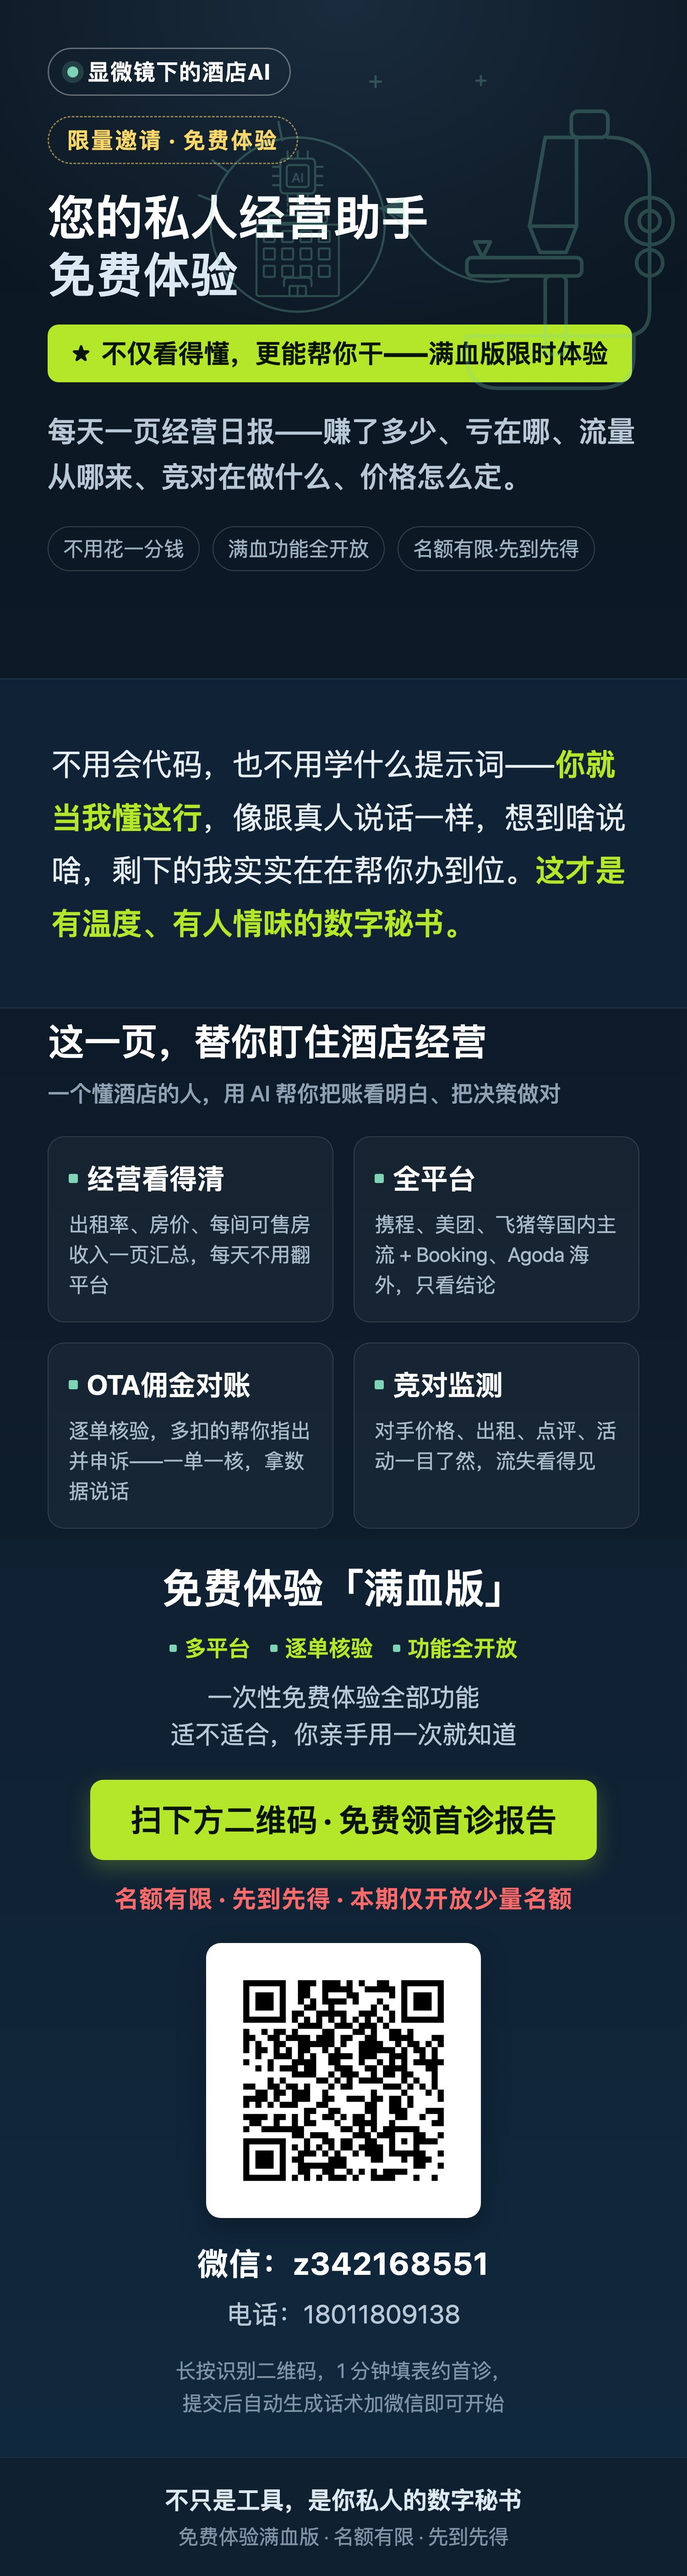
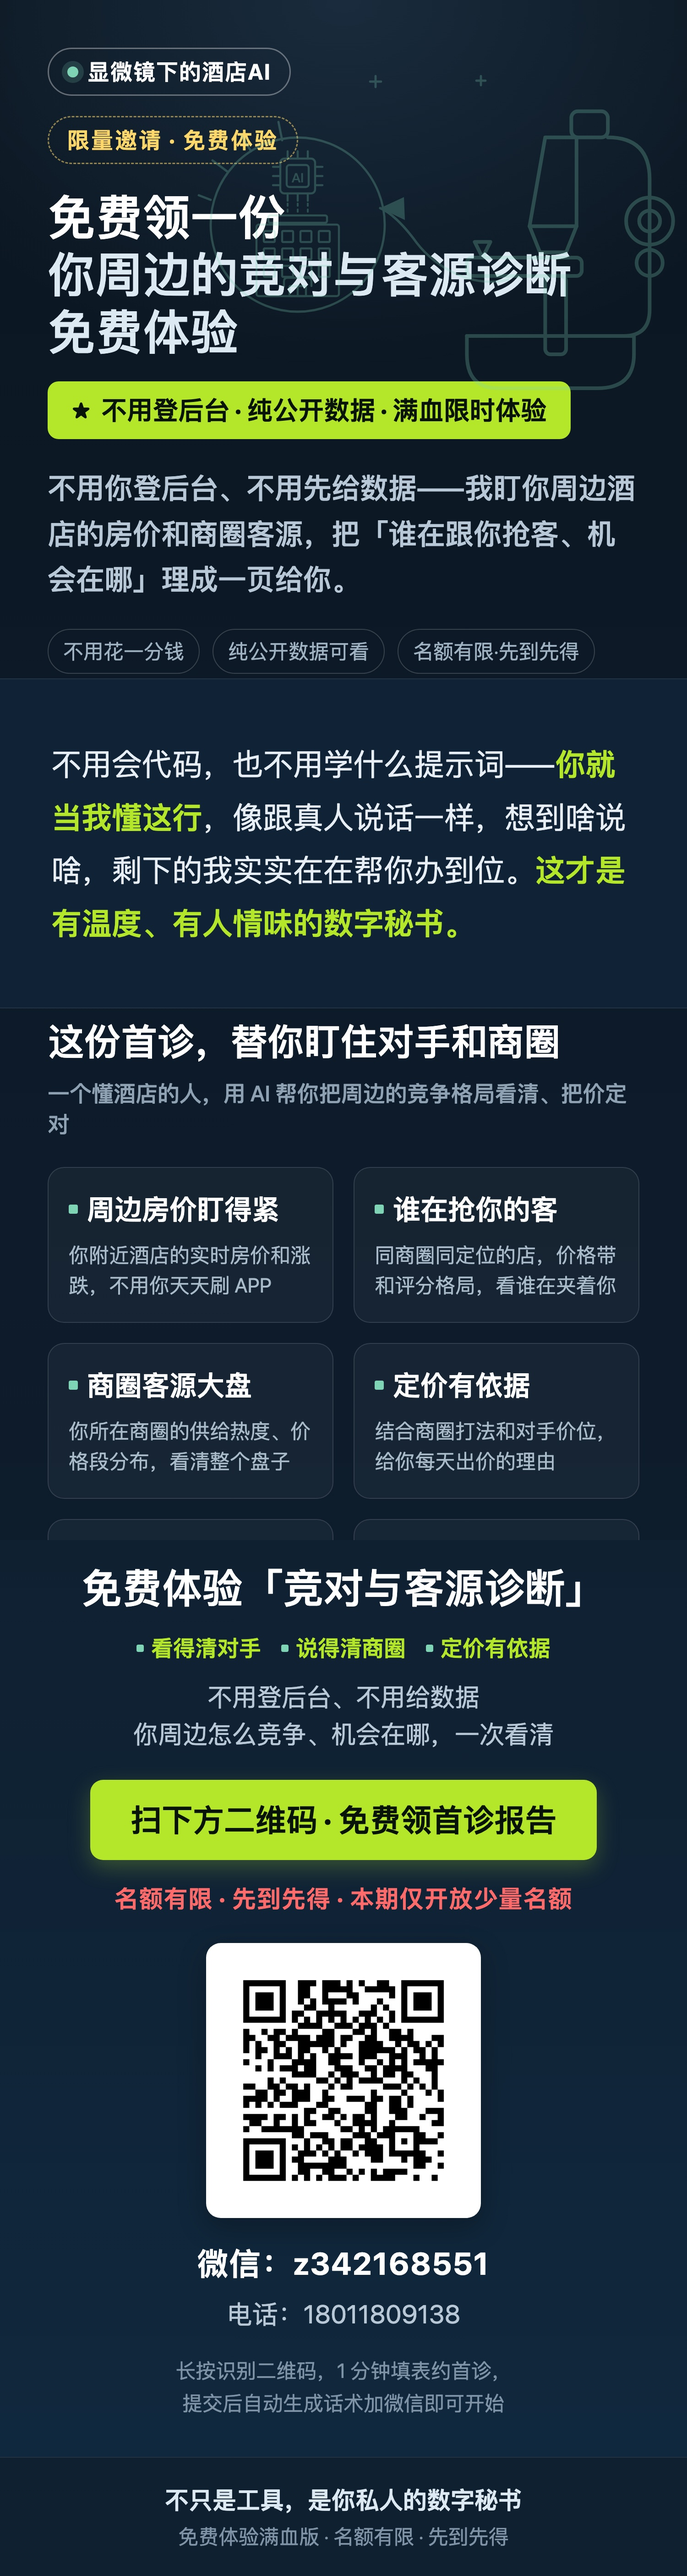
feat: 朋友圈长图统一为竞对+商圈首诊口径；sitemap纳入首诊落地页

diff --git a/wechat-poster-v2.html b/wechat-poster-v2.html
@@ -77,10 +77,10 @@
   <div class="hero">
     <span class="badge">显微镜下的酒店AI</span>
     <span class="limited-top">限量邀请 · 免费体验</span>
-    <h1>您的私人经营助手<br><span class="sec">免费体验</span></h1>
-    <span class="free">不仅看得懂，更能帮你干——满血版限时体验</span>
-    <p class="tsub">每天一页经营日报——赚了多少、亏在哪、流量从哪来、竞对在做什么、价格怎么定。</p>
-    <div class="trust"><span>不用花一分钱</span><span>满血功能全开放</span><span>名额有限·先到先得</span></div>
+    <h1>免费领一份<br><span class="sec">你周边的竞对与客源诊断<br>免费体验</span></h1>
+    <span class="free">不用登后台 · 纯公开数据 · 满血限时体验</span>
+    <p class="tsub">不用你登后台、不用先给数据——我盯你周边酒店的房价和商圈客源，把「谁在跟你抢客、机会在哪」理成一页给你。</p>
+    <div class="trust"><span>不用花一分钱</span><span>纯公开数据可看</span><span>名额有限·先到先得</span></div>
     <svg class="watermark" width="560" height="470" viewBox="0 0 560 430" fill="none" stroke="#7fd4b6" stroke-width="2.4" stroke-linecap="round" stroke-linejoin="round" xmlns="http://www.w3.org/2000/svg">
       <!-- ===== 左：放大视野圆圈（内含 酒店 + AI） ===== -->
       <circle cx="110" cy="210" r="95"/>
@@ -163,21 +163,21 @@
   <div class="idea"><p>不用会代码，也不用学什么提示词——<span class="hl">你就当我懂这行</span>，像跟真人说话一样，想到啥说啥，剩下的我实实在在帮你办到位。<span class="hl">这才是有温度、有人情味的数字秘书。</span></p></div>
 
   <div class="sect services">
-    <div class="shead">这一页，替你盯住酒店经营<small>一个懂酒店的人，用 AI 帮你把账看明白、把决策做对</small></div>
+    <div class="shead">这份首诊，替你盯住对手和商圈<small>一个懂酒店的人，用 AI 帮你把周边的竞争格局看清、把价定对</small></div>
     <div class="grid">
-      <div class="card"><div class="t">经营看得清</div><p>出租率、房价、每间可售房收入一页汇总，每天不用翻平台</p></div>
-      <div class="card"><div class="t">全平台</div><p>携程、美团、飞猪等国内主流 + Booking、Agoda 海外，只看结论</p></div>
-      <div class="card"><div class="t">OTA佣金对账</div><p>逐单核验，多扣的帮你指出并申诉——一单一核，拿数据说话</p></div>
-      <div class="card"><div class="t">竞对监测</div><p>对手价格、出租、点评、活动一目了然，流失看得见</p></div>
-      <div class="card"><div class="t">评分口碑</div><p>点评变化追踪，差评怎么回、分怎么涨，都有招</p></div>
-      <div class="card"><div class="t">定价建议</div><p>凭感觉定价最贵——给你每天的价格调整依据</p></div>
+      <div class="card"><div class="t">周边房价盯得紧</div><p>你附近酒店的实时房价和涨跌，不用你天天刷 APP</p></div>
+      <div class="card"><div class="t">谁在抢你的客</div><p>同商圈同定位的店，价格带和评分格局，看谁在夹着你</p></div>
+      <div class="card"><div class="t">商圈客源大盘</div><p>你所在商圈的供给热度、价格段分布，看清整个盘子</p></div>
+      <div class="card"><div class="t">定价有依据</div><p>结合商圈打法和对手价位，给你每天出价的理由</p></div>
+      <div class="card"><div class="t">纯公开数据</div><p>不用你登后台、不用给数据，盯的都是市面上看得见的</p></div>
+      <div class="card"><div class="t">真人操盘</div><p>不是丢个软件给你，是懂酒店的人用 AI 帮你把事办到位</p></div>
     </div>
   </div>
 
   <div class="contact">
-    <div class="c-title">免费体验「满血版」</div>
-    <div class="c-sell"><span>多平台</span><span>逐单核验</span><span>功能全开放</span></div>
-    <div class="c-sub">一次性免费体验全部功能<br>适不适合，你亲手用一次就知道</div>
+    <div class="c-title">免费体验「竞对与客源诊断」</div>
+    <div class="c-sell"><span>看得清对手</span><span>说得清商圈</span><span>定价有依据</span></div>
+    <div class="c-sub">不用登后台、不用给数据<br>你周边怎么竞争、机会在哪，一次看清</div>
     <div class="btn">扫下方二维码 · 免费领首诊报告</div>
     <div class="limit">名额有限 · 先到先得 · 本期仅开放少量名额</div>
     <div class="qr"><img src="trial-qr.png" alt="免费首诊二维码"></div>
